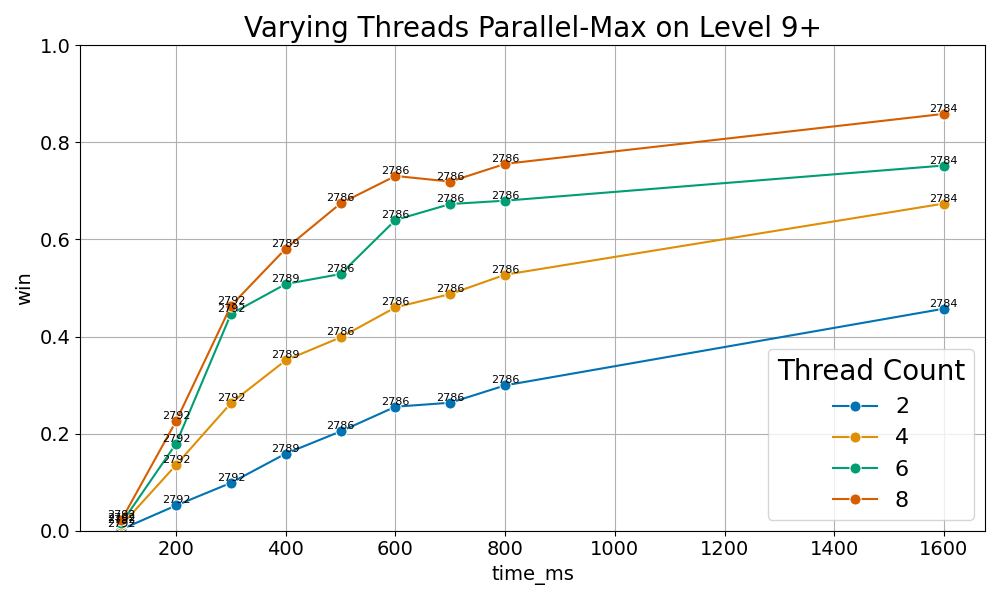
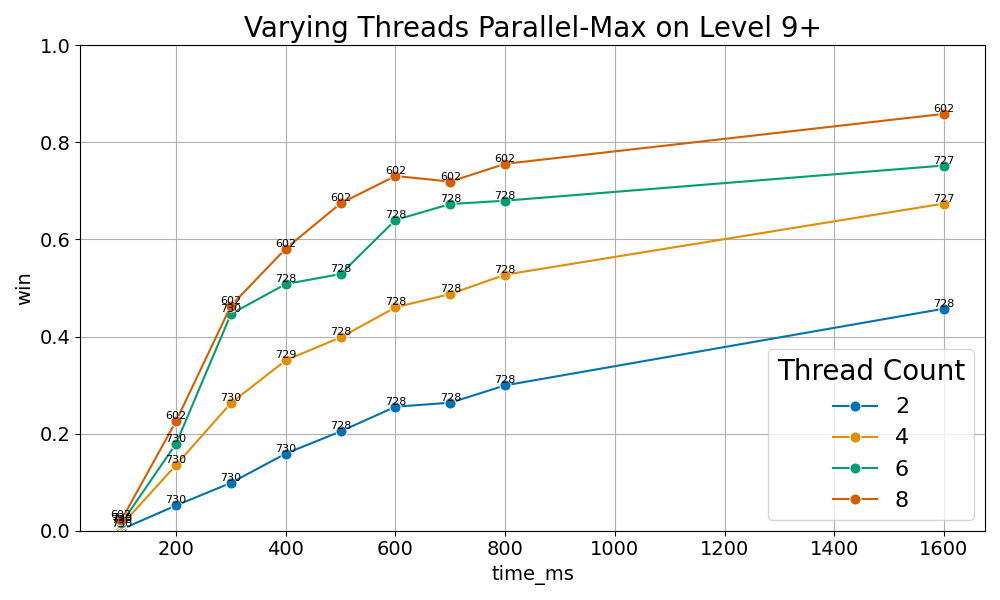
Fixed sample size bug

diff --git a/game_ai/create_graphs.py b/game_ai/create_graphs.py
@@ -211,10 +211,15 @@ def plot_pvz_data(
         labels=legend_labels,
     )
     # Annotate each point with the correct sample count
-    for line in ax.lines:
+    for i in range(len(unique_legend_values)):
+        line = ax.lines[i]
         x, y = line.get_xydata().T
         for xi, yi in zip(x, y):
-            sample_count = len(filtered_data[(filtered_data[x_axis] == xi)])
+            sample_count = len(
+                filtered_data[
+                    (filtered_data[x_axis] == xi) & (filtered_data[group_graphs_by] == unique_legend_values[i])
+                ]
+            )
             plt.text(xi, yi, sample_count, fontsize=8, ha="center", va="bottom", color="black")
 
     # Set to log scale if need be
